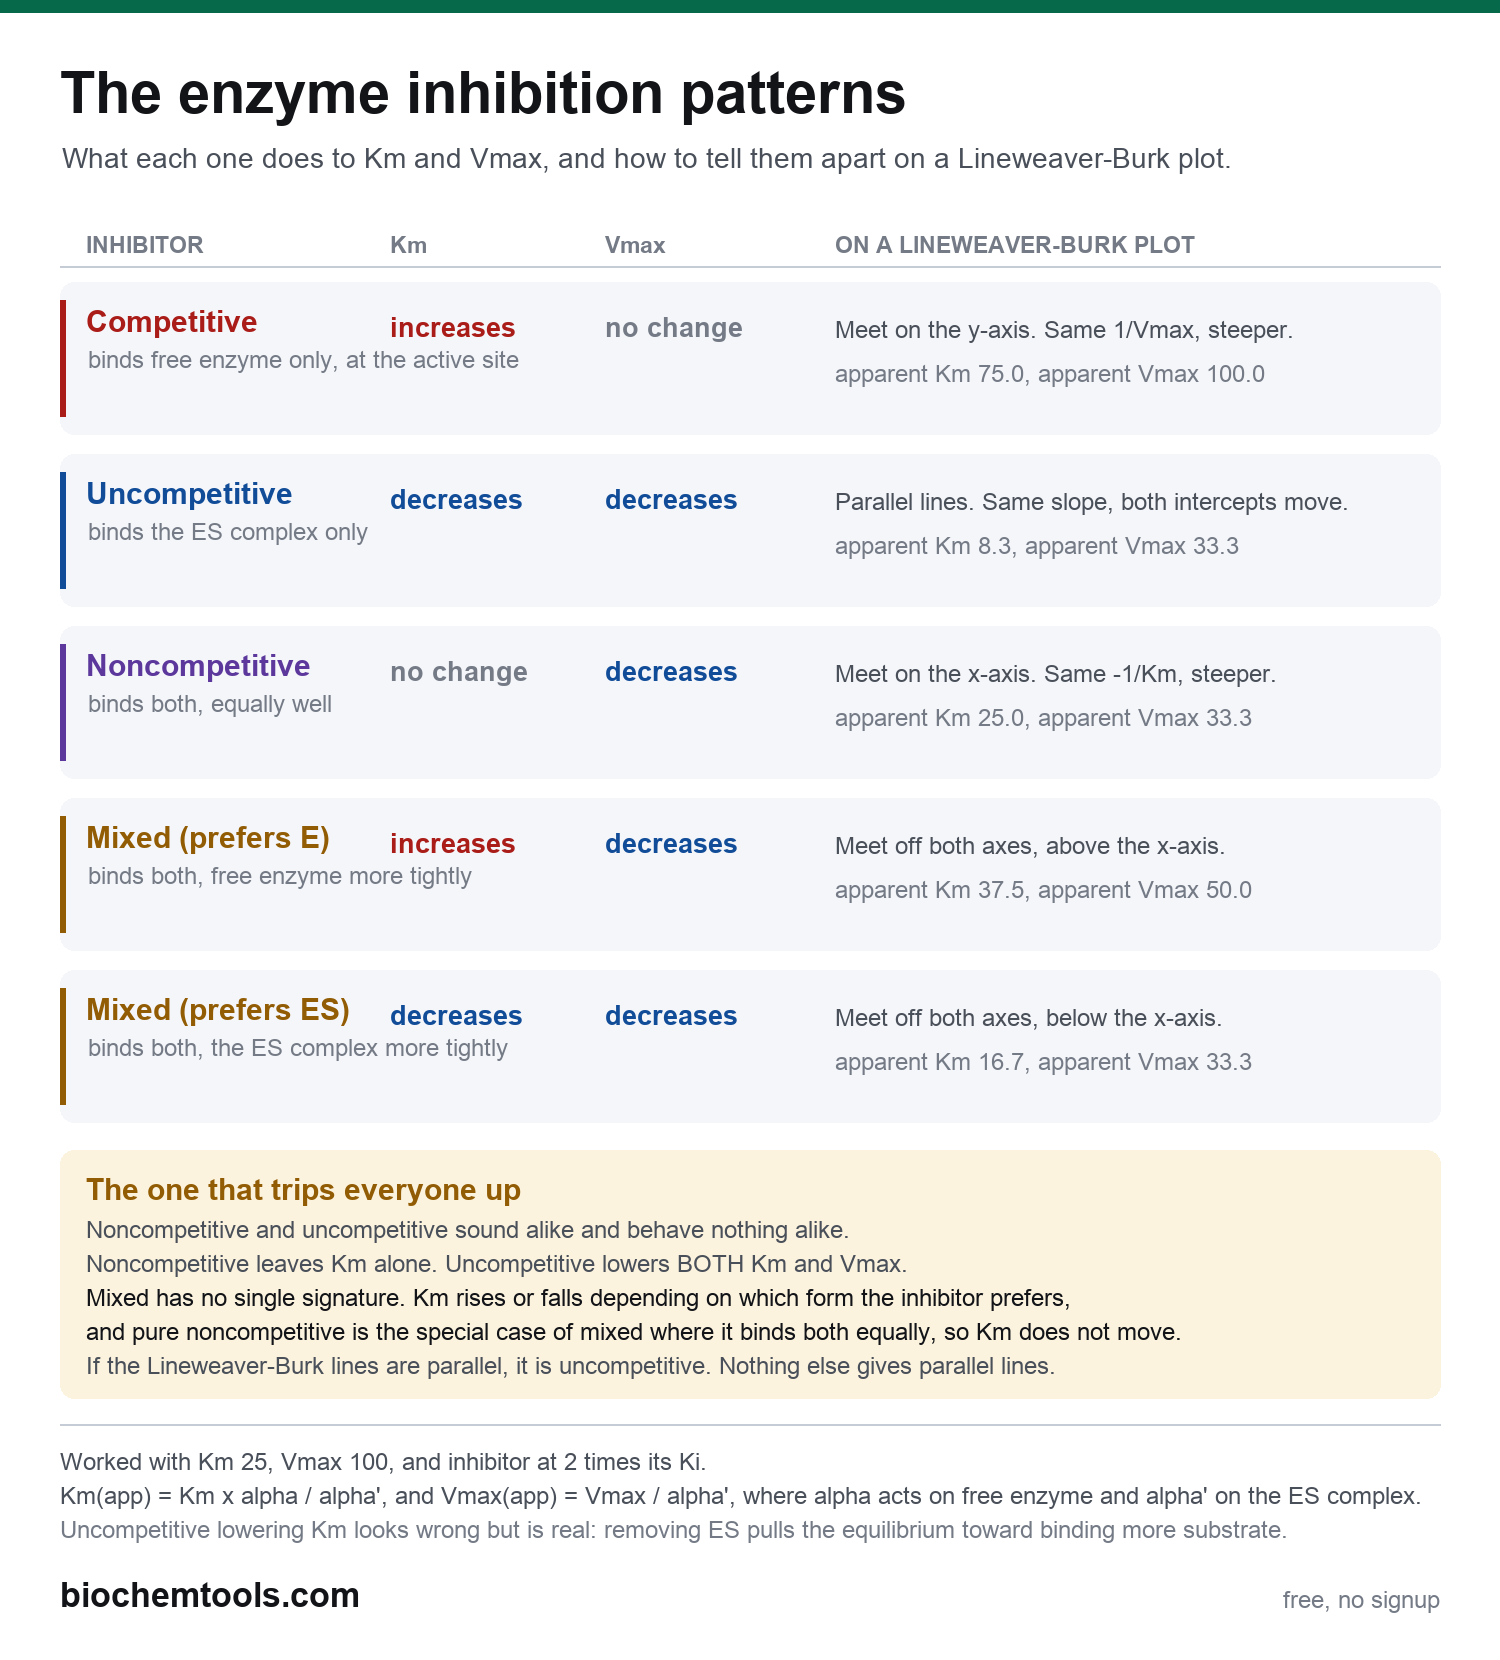
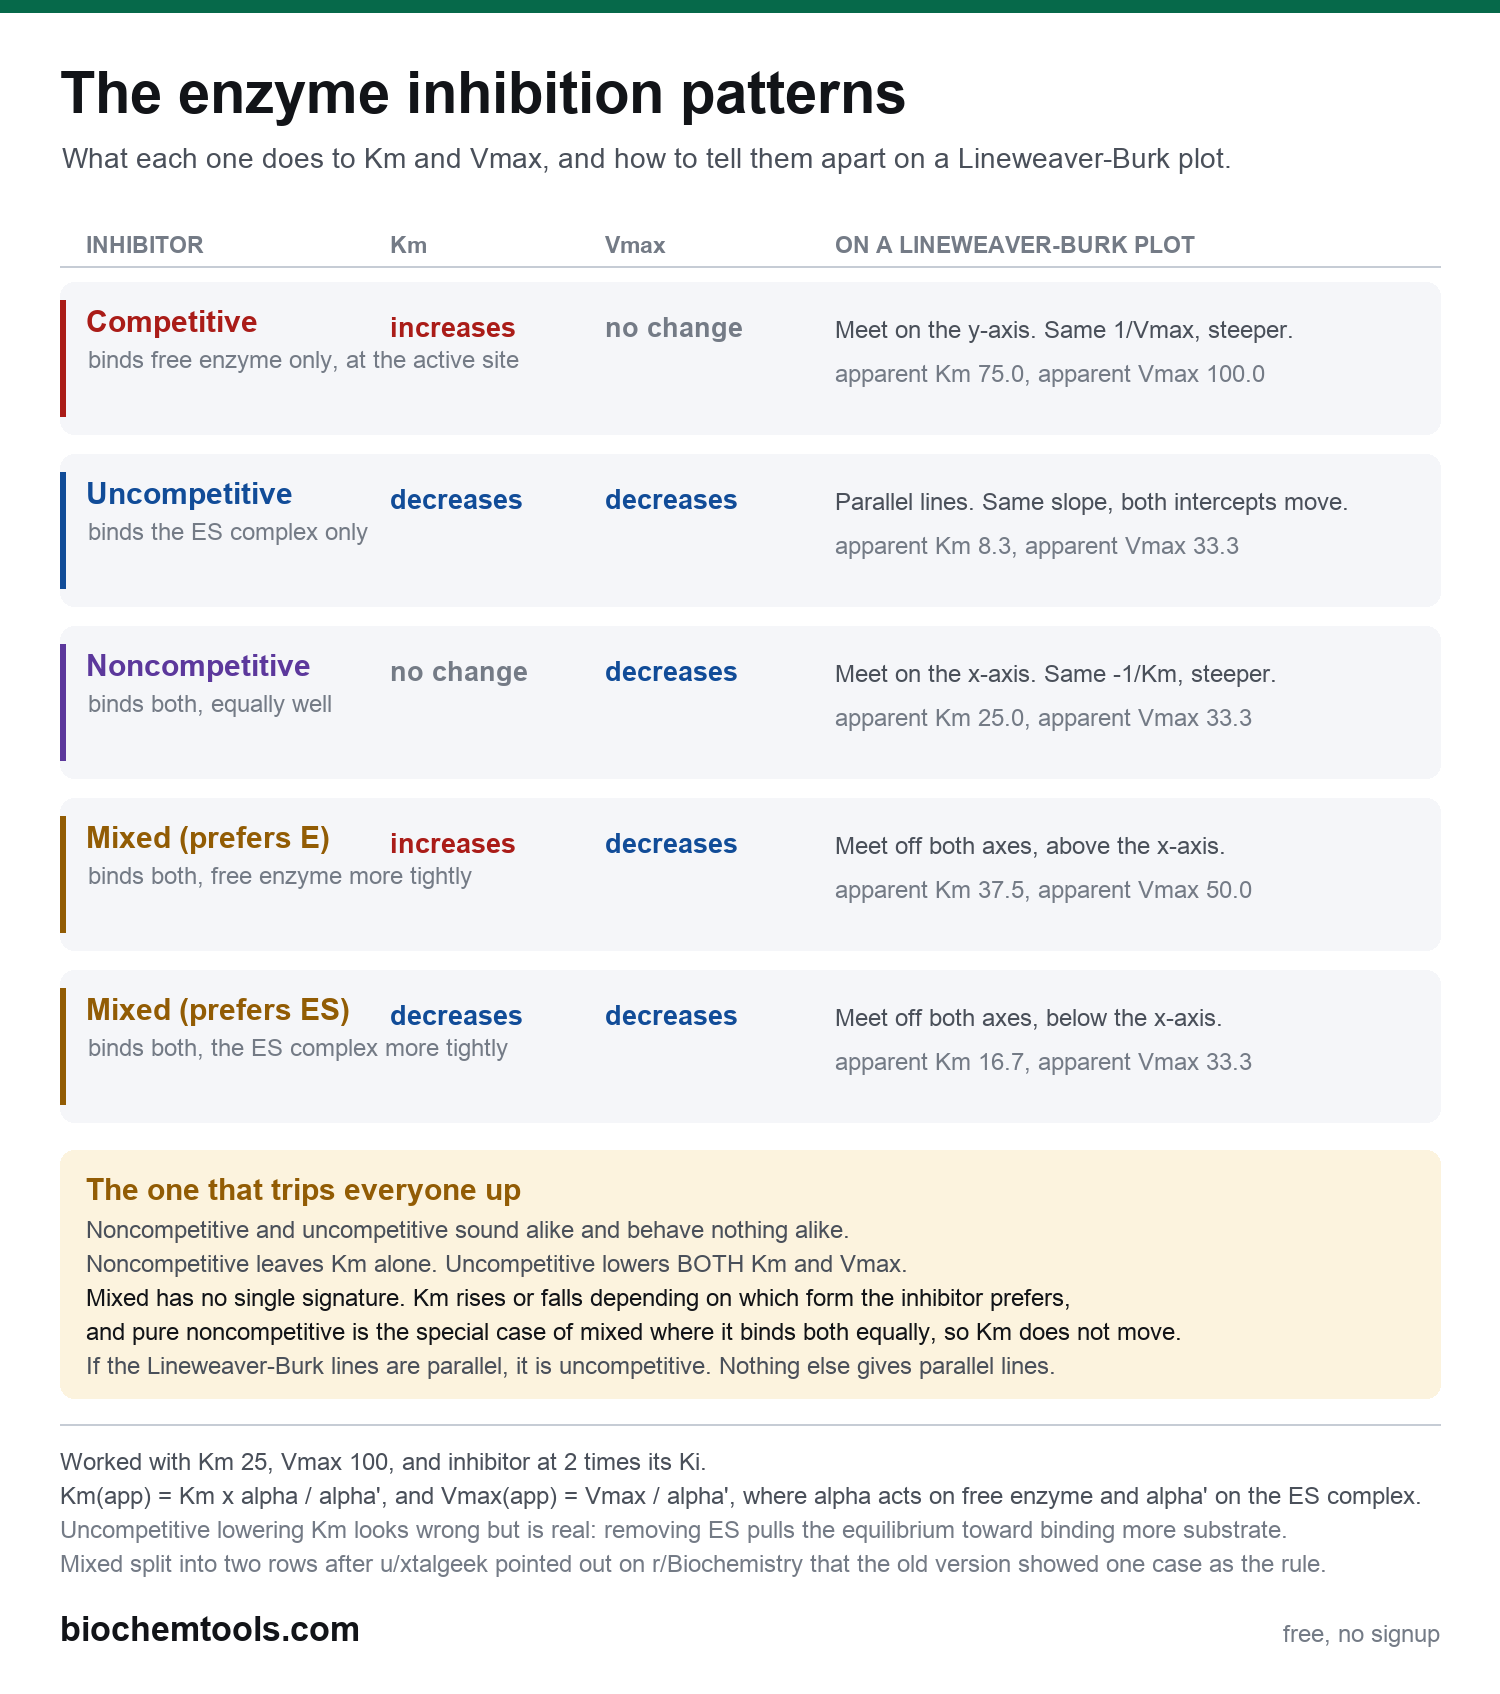
Credit u/xtalgeek on the inhibition chart itself
The correction was already made, but the thanks lived in a code comment where
nobody who reads the chart would ever see it. Public credit for a public fix.

diff --git a/tools/charts/make_inhibition_guide.py b/tools/charts/make_inhibition_guide.py
@@ -87,7 +87,7 @@ F_DOM = f(B, 34)
 
 W, M = 1500, 60
 CW = W - 2 * M
-H = 1660
+H = 1694
 img = Image.new("RGB", (W, H), BG)
 d = ImageDraw.Draw(img)
 d.rectangle([0, 0, W, 12], fill=GREEN)
@@ -162,6 +162,7 @@ foot = [
     f"Worked with Km {KM:.0f}, Vmax {VMAX:.0f}, and inhibitor at {R:.0f} times its Ki.",
     "Km(app) = Km x alpha / alpha', and Vmax(app) = Vmax / alpha', where alpha acts on free enzyme and alpha' on the ES complex.",
     "Uncompetitive lowering Km looks wrong but is real: removing ES pulls the equilibrium toward binding more substrate.",
+    "Mixed split into two rows after u/xtalgeek pointed out on r/Biochemistry that the old version showed one case as the rule.",
 ]
 for i, t in enumerate(foot):
     assert M + d.textlength(t, font=F_FOOT) < W - M, f"footer {i} overflows"
